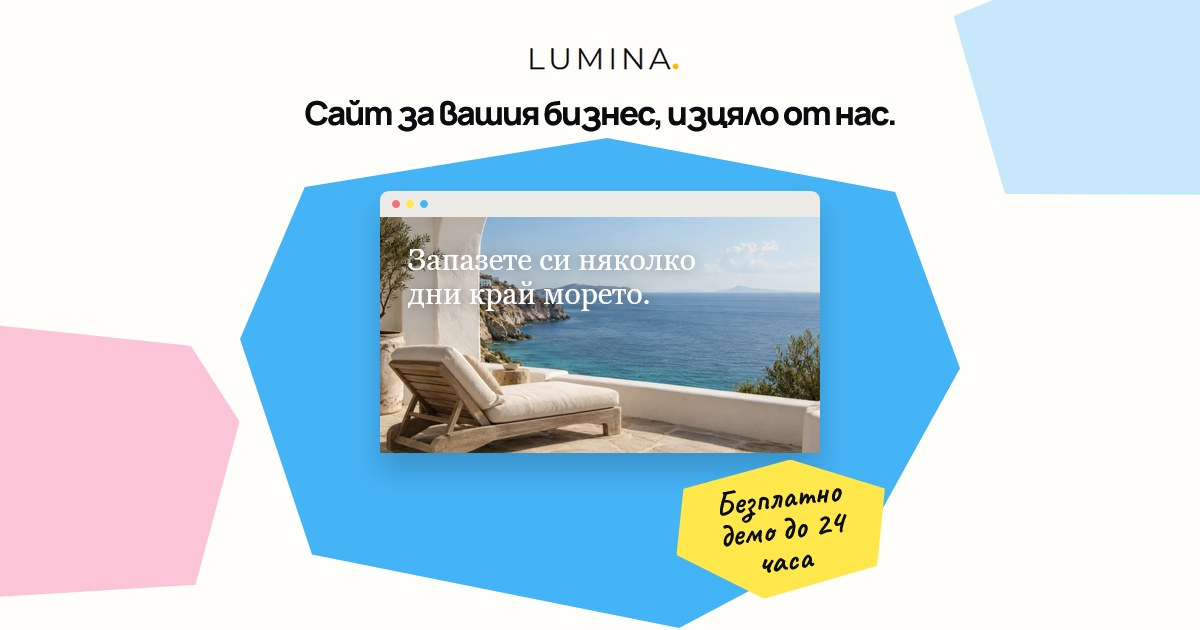
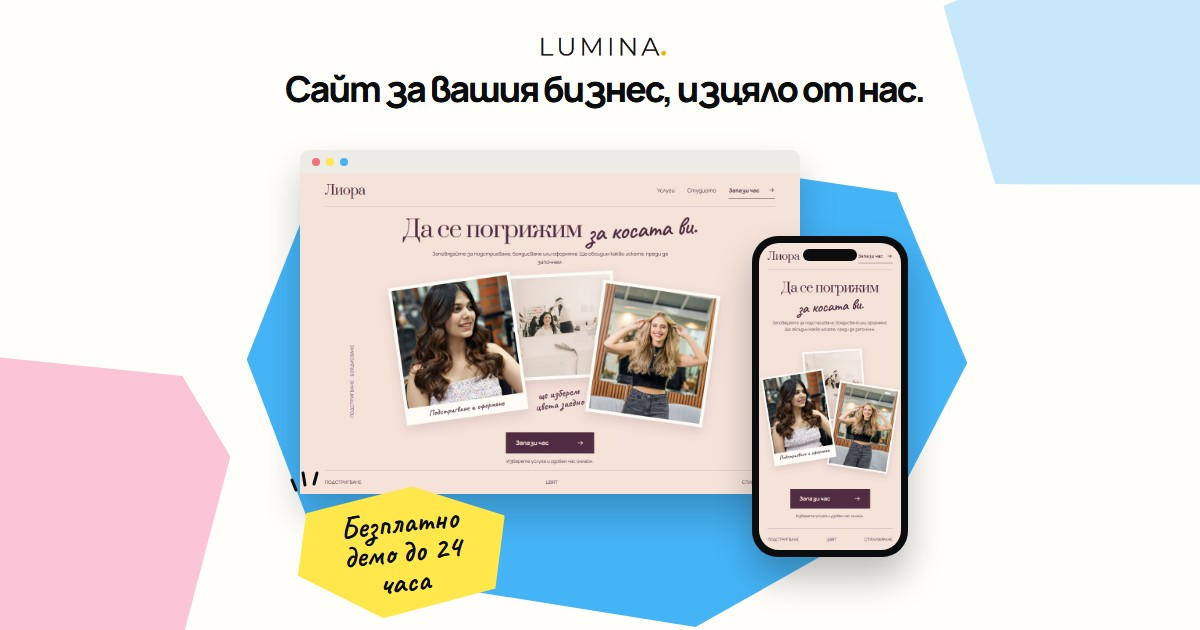
Share card: the Liora salon on desktop and phone (card 1 of previews/share-card-2)

diff --git a/previews/share-card-2/card.html b/previews/share-card-2/card.html
@@ -1,0 +1,120 @@
+<!doctype html>
+<html lang="bg">
+<head>
+<meta charset="utf-8">
+<meta name="robots" content="noindex">
+<title>Lumina share card, round 2</title>
+<link rel="stylesheet" href="../../assets/fonts/fonts.css">
+<style>
+/* Share card round 2 (2026-10-14): the Лиора salon on a desktop window and a phone, bigger than in round 1.
+   1200x630; Instagram cuts it to the middle square (x 285-915), so in 1-3 everything that matters sits there.
+   4 uses the full width. Open with ?v=1 … 4; shots.py takes the JPEGs. */
+:root{--paper:#fffefa;--ink:#0b0c0e;--yellow:#ffe74c;--pink:#fbc4d7;--blue:#45b4f7;--pale-blue:#c7e8fa}
+*{box-sizing:border-box}
+body{margin:0;background:#888}
+.card{position:relative;width:1200px;height:630px;overflow:hidden;background:var(--paper);color:var(--ink);font-family:Manrope,Arial,sans-serif}
+.card>*{position:absolute}
+.card:not([data-v="1"]) .v1,.card:not([data-v="2"]) .v2,.card:not([data-v="3"]) .v3,.card:not([data-v="4"]) .v4{display:none}
+.cut1{clip-path:polygon(9% 10%,51% 0,91% 11%,100% 47%,88% 79%,61% 100%,10% 85%,0 41%)}
+.cut2{clip-path:polygon(9% 4%,80% 0,100% 24%,94% 84%,27% 100%,0 48%)}
+.cut3{clip-path:polygon(4% 20%,70% 0,100% 45%,80% 100%,12% 88%)}
+.blue{background:var(--blue)}.pink{background:var(--pink)}.pale{background:var(--pale-blue)}.yel{background:var(--yellow)}
+.logo{height:auto;display:block}
+h1{margin:0;font-weight:800;letter-spacing:-.065em;line-height:.95}
+h1 em{font-style:normal;background:linear-gradient(transparent 58%,var(--yellow) 58%,var(--yellow) 92%,transparent 92%)}
+.note{font:700 34px/.95 Caveat,cursive;display:flex;align-items:center;justify-content:center;text-align:center;background:var(--yellow);clip-path:polygon(7% 12%,58% 0,100% 30%,92% 86%,38% 100%,0 60%);padding:0 24px}
+.marks{width:46px;height:40px;fill:none;stroke:var(--ink);stroke-width:3;stroke-linecap:round}
+.arrow{fill:none;stroke:var(--ink);stroke-width:2.6;stroke-linecap:round;stroke-linejoin:round}
+.url{font-size:13px;font-weight:800;letter-spacing:.19em}
+/* Devices */
+.browser{border-radius:9px 9px 0 0;overflow:hidden;box-shadow:0 20px 36px #0b0c0e38;background:#ecebe6}
+.browser .bar{height:24px;display:flex;align-items:center;gap:6px;padding-left:12px}
+.browser .bar i{width:8px;height:8px;border-radius:50%;background:#f1707a}.browser .bar i:nth-child(2){background:#ffe74c}.browser .bar i:nth-child(3){background:#45b4f7}
+.browser img{display:block;width:100%;height:auto}
+.phone{background:#0b0c0e;padding:7px;border-radius:26px;box-shadow:0 20px 36px #0b0c0e45}
+.phone img{display:block;width:100%;height:auto;border-radius:20px}
+.phone:before{content:"";position:absolute;left:50%;top:13px;width:34%;height:12px;margin-left:-17%;border-radius:8px;background:#0b0c0e;z-index:1}
+
+/* 1: everything bigger, the phone in front, heading on top */
+.v1.s1{left:248px;top:150px;width:720px;height:480px;transform:rotate(-2deg)}
+.v1.s2{left:-80px;top:360px;width:300px;height:300px;transform:rotate(9deg)}
+.v1.s3{right:-70px;top:-70px;width:330px;height:270px;transform:rotate(-8deg)}
+.v1.logo{left:520px;top:26px;width:160px}
+.v1.h{left:285px;top:72px;width:630px;text-align:center;font-size:36px;white-space:nowrap}
+.v1.browser{left:300px;top:150px;width:500px}
+.v1.phone{left:752px;top:236px;width:156px}
+.v1.note{left:296px;top:488px;width:212px;height:128px;transform:rotate(-6deg);font-size:31px}
+.v1.marks{left:290px;top:470px}
+
+/* 2: devices fill the top, heading underneath with the marker */
+.v2.s1{left:230px;top:-40px;width:760px;height:500px}
+.v2.s2{left:-60px;top:-60px;width:300px;height:280px;transform:rotate(-7deg)}
+.v2.s3{right:-50px;bottom:-80px;width:320px;height:260px;transform:rotate(7deg)}
+.v2.browser{left:296px;top:34px;width:500px}
+.v2.phone{left:748px;top:96px;width:150px}
+.v2.h{left:300px;top:418px;font-size:46px;letter-spacing:-.07em}
+.v2.logo{left:302px;top:556px;width:130px}
+.v2.url{left:452px;top:561px;font-size:12px}
+.v2.note{left:744px;top:452px;width:170px;height:118px;font-size:28px;transform:rotate(-7deg)}
+
+/* 3: collage, the phone big and tilted, a handwritten arrow to it */
+.v3.s1{left:200px;top:120px;width:640px;height:520px;transform:rotate(4deg)}
+.v3.s2{left:640px;top:-80px;width:420px;height:400px;transform:rotate(-6deg)}
+.v3.s3{left:-90px;top:-60px;width:330px;height:280px;transform:rotate(-5deg)}
+.v3.logo{left:300px;top:30px;width:150px}
+.v3.h{left:298px;top:74px;font-size:40px;letter-spacing:-.07em;line-height:.92}
+.v3.browser{left:300px;top:236px;width:420px;transform:rotate(-3deg)}
+.v3.phone{left:704px;top:120px;width:196px;transform:rotate(4deg)}
+.v3.hand{left:304px;top:526px;font:700 34px/1 Caveat,cursive;transform:rotate(-4deg);background:var(--yellow);padding:6px 16px 8px;clip-path:polygon(2% 8%,98% 0,100% 90%,0 100%)}
+.v3.arrow{left:636px;top:458px;width:84px;height:100px}
+
+/* 4: the full width: heading left, devices right (Instagram shows mostly the devices) */
+.v4.s1{left:560px;top:40px;width:700px;height:560px;transform:rotate(-3deg)}
+.v4.s2{left:-90px;top:430px;width:340px;height:300px;transform:rotate(8deg)}
+.v4.s3{left:430px;top:-90px;width:260px;height:200px;transform:rotate(-8deg)}
+.v4.logo{left:70px;top:58px;width:170px}
+.v4.h{left:68px;top:150px;font-size:66px;letter-spacing:-.075em;line-height:.9}
+.v4.note{left:96px;top:410px;width:230px;height:136px;transform:rotate(-6deg)}
+.v4.marks{left:84px;top:392px}
+.v4.browser{left:520px;top:100px;width:540px}
+.v4.phone{left:960px;top:200px;width:180px}
+.v4.url{left:362px;top:482px}
+</style>
+</head>
+<body>
+<div class="card" data-v="1">
+  <i class="v1 s1 blue cut1"></i><i class="v1 s2 pink cut2"></i><i class="v1 s3 pale cut3"></i>
+  <img class="v1 logo" src="../../assets/images/lumina-logo.png" alt="">
+  <h1 class="v1 h">Сайт за вашия бизнес, изцяло от нас.</h1>
+  <div class="v1 browser"><div class="bar"><i></i><i></i><i></i></div><img src="../../assets/selected-demos/liora.jpg" alt=""></div>
+  <div class="v1 phone"><img src="../../assets/selected-demos/liora-mobile.jpg" alt=""></div>
+  <div class="v1 note">Безплатно демо до 24 часа</div>
+  <svg class="v1 marks" viewBox="0 0 46 40"><path d="M6 20 2 10M15 15 13 3M24 14 27 3"/></svg>
+
+  <i class="v2 s1 blue cut1"></i><i class="v2 s2 pink cut2"></i><i class="v2 s3 pale cut3"></i>
+  <div class="v2 browser"><div class="bar"><i></i><i></i><i></i></div><img src="../../assets/selected-demos/liora.jpg" alt=""></div>
+  <div class="v2 phone"><img src="../../assets/selected-demos/liora-mobile.jpg" alt=""></div>
+  <h1 class="v2 h">Сайт за вашия бизнес,<br><em>изцяло от нас.</em></h1>
+  <img class="v2 logo" src="../../assets/images/lumina-logo.png" alt="">
+  <p class="v2 url">LUMINASTUDIO.BG</p>
+  <div class="v2 note">Безплатно демо до 24 часа</div>
+
+  <i class="v3 s1 blue cut1"></i><i class="v3 s2 pink cut2"></i><i class="v3 s3 pale cut3"></i>
+  <img class="v3 logo" src="../../assets/images/lumina-logo.png" alt="">
+  <h1 class="v3 h">Сайт за вашия<br>бизнес, изцяло<br>от нас.</h1>
+  <div class="v3 browser"><div class="bar"><i></i><i></i><i></i></div><img src="../../assets/selected-demos/liora.jpg" alt=""></div>
+  <div class="v3 phone"><img src="../../assets/selected-demos/liora-mobile.jpg" alt=""></div>
+  <p class="v3 hand">Безплатно демо до 24 часа</p>
+  <svg class="v3 arrow" viewBox="0 0 84 100"><path d="M6 92C40 88 62 62 72 16M58 26l14-12 8 17"/></svg>
+
+  <i class="v4 s1 blue cut1"></i><i class="v4 s2 pink cut2"></i><i class="v4 s3 pale cut3"></i>
+  <img class="v4 logo" src="../../assets/images/lumina-logo.png" alt="">
+  <h1 class="v4 h">Сайт за<br>вашия бизнес,<br>изцяло от нас.</h1>
+  <div class="v4 note">Безплатно демо до 24 часа</div>
+  <svg class="v4 marks" viewBox="0 0 46 40"><path d="M6 20 2 10M15 15 13 3M24 14 27 3"/></svg>
+  <div class="v4 browser"><div class="bar"><i></i><i></i><i></i></div><img src="../../assets/selected-demos/liora.jpg" alt=""></div>
+  <div class="v4 phone"><img src="../../assets/selected-demos/liora-mobile.jpg" alt=""></div>
+</div>
+<script>document.querySelector('.card').dataset.v = new URLSearchParams(location.search).get('v') || '1'</script>
+</body>
+</html>

diff --git a/index.html b/index.html
@@ -16,7 +16,7 @@
   <meta property="og:url" content="https://luminastudio.bg/">
   <meta property="og:title" content="Lumina — Сайт за вашия бизнес, изцяло от нас">
   <meta property="og:description" content="Lumina прави сайтове за малкия бизнес в България: дизайн, изработка, домейн, хостинг, SEO и поддръжка. Безплатно демо на вашия сайт до 24 часа.">
-  <meta property="og:image" content="https://luminastudio.bg/assets/share-card.jpg?v=2">
+  <meta property="og:image" content="https://luminastudio.bg/assets/share-card.jpg?v=3">
   <meta property="og:image:type" content="image/jpeg">
   <meta property="og:image:width" content="1200">
   <meta property="og:image:height" content="630">
@@ -24,12 +24,12 @@
   <meta name="twitter:card" content="summary_large_image">
   <meta name="twitter:title" content="Lumina — Сайт за вашия бизнес, изцяло от нас">
   <meta name="twitter:description" content="Lumina прави сайтове за малкия бизнес в България: дизайн, изработка, домейн, хостинг, SEO и поддръжка. Безплатно демо на вашия сайт до 24 часа.">
-  <meta name="twitter:image" content="https://luminastudio.bg/assets/share-card.jpg?v=2">
+  <meta name="twitter:image" content="https://luminastudio.bg/assets/share-card.jpg?v=3">
   <link rel="icon" href="favicon.ico" sizes="48x48">
   <link rel="icon" href="assets/favicon.svg" type="image/svg+xml">
   <link rel="apple-touch-icon" href="assets/apple-touch-icon.png">
   <link rel="manifest" href="site.webmanifest">
-  <script type="application/ld+json">{"@context":"https://schema.org","@type":"ProfessionalService","name":"Lumina Studio","description":"Lumina прави сайтове за малкия бизнес в България: дизайн, изработка, домейн, хостинг, SEO и поддръжка. Безплатно демо на вашия сайт до 24 часа.","url":"https://luminastudio.bg/","image":"https://luminastudio.bg/assets/share-card.jpg?v=2","logo":"https://luminastudio.bg/assets/icon-512.png","telephone":"+359877776563","email":"info@luminastudio.bg","areaServed":{"@type":"Country","name":"Bulgaria"},"availableLanguage":["bg","en"],"knowsAbout":["Уеб дизайн","Изработка на сайтове","SEO оптимизация","Хостинг и домейни","Поддръжка на сайтове"]}</script>
+  <script type="application/ld+json">{"@context":"https://schema.org","@type":"ProfessionalService","name":"Lumina Studio","description":"Lumina прави сайтове за малкия бизнес в България: дизайн, изработка, домейн, хостинг, SEO и поддръжка. Безплатно демо на вашия сайт до 24 часа.","url":"https://luminastudio.bg/","image":"https://luminastudio.bg/assets/share-card.jpg?v=3","logo":"https://luminastudio.bg/assets/icon-512.png","telephone":"+359877776563","email":"info@luminastudio.bg","areaServed":{"@type":"Country","name":"Bulgaria"},"availableLanguage":["bg","en"],"knowsAbout":["Уеб дизайн","Изработка на сайтове","SEO оптимизация","Хостинг и домейни","Поддръжка на сайтове"]}</script>
   <link rel="stylesheet" href="assets/fonts/fonts.css?v=2">
   <link rel="stylesheet" href="styles.css?v=23">
   <link rel="stylesheet" href="overview-clear-callouts.css?v=10">

diff --git a/404.html b/404.html
@@ -15,7 +15,7 @@
 <meta property="og:url" content="https://luminastudio.bg/">
 <meta property="og:title" content="Lumina — Сайт за вашия бизнес, изцяло от нас">
 <meta property="og:description" content="Lumina прави сайтове за малкия бизнес в България: дизайн, изработка, домейн, хостинг, SEO и поддръжка. Безплатно демо на вашия сайт до 24 часа.">
-<meta property="og:image" content="https://luminastudio.bg/assets/share-card.jpg?v=2">
+<meta property="og:image" content="https://luminastudio.bg/assets/share-card.jpg?v=3">
 <meta property="og:image:type" content="image/jpeg">
 <meta property="og:image:width" content="1200">
 <meta property="og:image:height" content="630">
@@ -23,7 +23,7 @@
 <meta name="twitter:card" content="summary_large_image">
 <meta name="twitter:title" content="Lumina — Сайт за вашия бизнес, изцяло от нас">
 <meta name="twitter:description" content="Lumina прави сайтове за малкия бизнес в България: дизайн, изработка, домейн, хостинг, SEO и поддръжка. Безплатно демо на вашия сайт до 24 часа.">
-<meta name="twitter:image" content="https://luminastudio.bg/assets/share-card.jpg?v=2">
+<meta name="twitter:image" content="https://luminastudio.bg/assets/share-card.jpg?v=3">
 <link rel="icon" href="/assets/favicon.svg" type="image/svg+xml">
 <link rel="stylesheet" href="/assets/fonts/fonts.css?v=2">
 <style>

diff --git a/previews/share-card-2/shots.py b/previews/share-card-2/shots.py
@@ -1,0 +1,17 @@
+# Saves the four share cards as JPEGs (card1.jpg … card4.jpg), plus the middle square Instagram shows (cardN-square.jpg).
+#   python -I previews/share-card-2/shots.py
+import pathlib
+from playwright.sync_api import sync_playwright
+
+HERE = pathlib.Path(__file__).resolve().parent
+with sync_playwright() as pw:
+    b = pw.chromium.launch()
+    page = b.new_page(viewport={'width': 1200, 'height': 630})
+    for n in (1, 2, 3, 4):
+        page.goto((HERE / 'card.html').as_uri() + '?v=%d' % n, wait_until='load')
+        page.evaluate('document.fonts.ready')
+        page.wait_for_timeout(600)
+        page.screenshot(path=str(HERE / ('card%d.jpg' % n)), type='jpeg', quality=90)
+        page.screenshot(path=str(HERE / ('card%d-square.jpg' % n)), type='jpeg', quality=90, clip={'x': 285, 'y': 0, 'width': 630, 'height': 630})
+    b.close()
+print('shots done')

diff --git a/CLAUDE.md b/CLAUDE.md
@@ -56,7 +56,7 @@ Several CSS files still contain rules for layout variants that were discarded lo
 
 ## Search and link previews
 
-Added 2026-10-12. The `<head>` of `index.html` has the description, canonical address, Open Graph and Twitter tags, and a JSON-LD block describing the studio (phone, email, Bulgaria). The picture shown when the link is pasted in a chat is `assets/share-card.jpg` (1200×630). Since 2026-10-13 it is drawn by `previews/share-card/card.html?v=2` (owner's pick of three; `shots.py` there takes it): Instagram cuts the picture to its middle square, so everything that matters sits in the middle 630px. Icons: `assets/favicon.svg` is the source, with `favicon.ico`, `assets/apple-touch-icon.png`, `assets/icon-192.png` / `icon-512.png` and `site.webmanifest` made from it. `robots.txt` keeps `archive/`, `previews/` and `sites/` out of search and points to `sitemap.xml`. All full addresses in these tags and files point to `https://luminastudio.bg/` (changed from the GitHub Pages address on 2026-10-13 for the move to SiteGround); `robots.txt` only takes effect there (on GitHub Pages it is not at the domain root). The upload package for SiteGround is built from the tracked files minus `archive/`, `previews/`, `.impeccable/` and the notes, as a zip next to the repo folder (`lumina-upload.zip`). Chats cache the preview picture, so after changing it add a `?v=` to its address in the tags.
+Added 2026-10-12. The `<head>` of `index.html` has the description, canonical address, Open Graph and Twitter tags, and a JSON-LD block describing the studio (phone, email, Bulgaria). The picture shown when the link is pasted in a chat is `assets/share-card.jpg` (1200×630). Since 2026-10-14 it is card 1 of `previews/share-card-2/` (the Лиора salon on a desktop window and a phone; `shots.py` there takes it as JPEG; the address carries `?v=3`). Before that it was `previews/share-card/card.html?v=2`, the seaside hotel: Instagram cuts the picture to its middle square, so everything that matters sits in the middle 630px. Icons: `assets/favicon.svg` is the source, with `favicon.ico`, `assets/apple-touch-icon.png`, `assets/icon-192.png` / `icon-512.png` and `site.webmanifest` made from it. `robots.txt` keeps `archive/`, `previews/` and `sites/` out of search and points to `sitemap.xml`. All full addresses in these tags and files point to `https://luminastudio.bg/` (changed from the GitHub Pages address on 2026-10-13 for the move to SiteGround); `robots.txt` only takes effect there (on GitHub Pages it is not at the domain root). The upload package for SiteGround is built from the tracked files minus `archive/`, `previews/`, `.impeccable/` and the notes, as a zip next to the repo folder (`lumina-upload.zip`). Chats cache the preview picture, so after changing it add a `?v=` to its address in the tags.
 
 SEO changes 2026-10-14 (owner's picks 1 and 5 from `previews/seo/`): the page title is „Изработка на сайт за вашия бизнес, изцяло от нас | Lumina“ (English in `i18n.js`); the chat-preview title (`og:`/`twitter:`) stays „Lumina — Сайт за вашия бизнес, изцяло от нас“ on purpose, also in `404.html`. Declined then: naming Plovdiv in the footer and in the JSON-LD (Plovdiv was only a guess from the clients' locations; the owner's city is not confirmed). Social links not added: none supplied yet.
 
